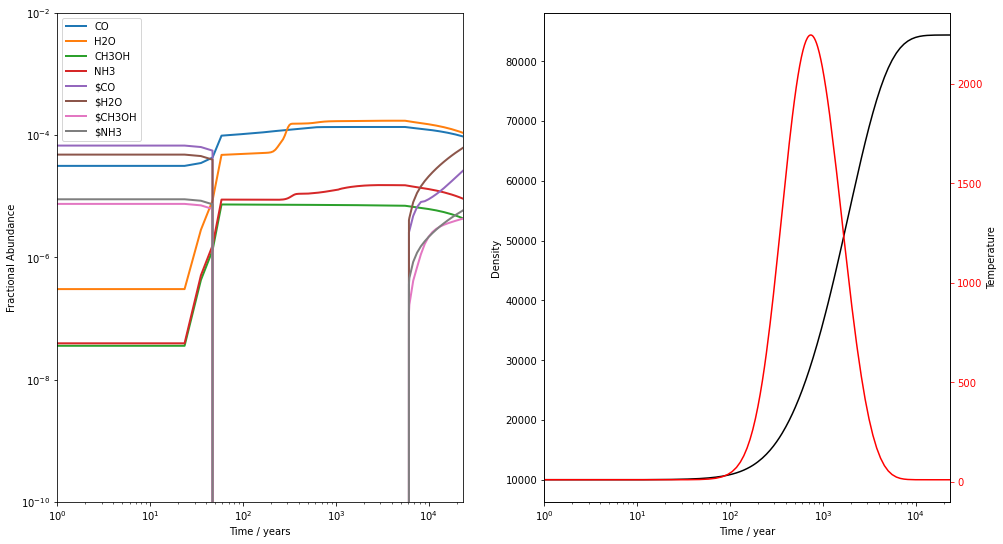
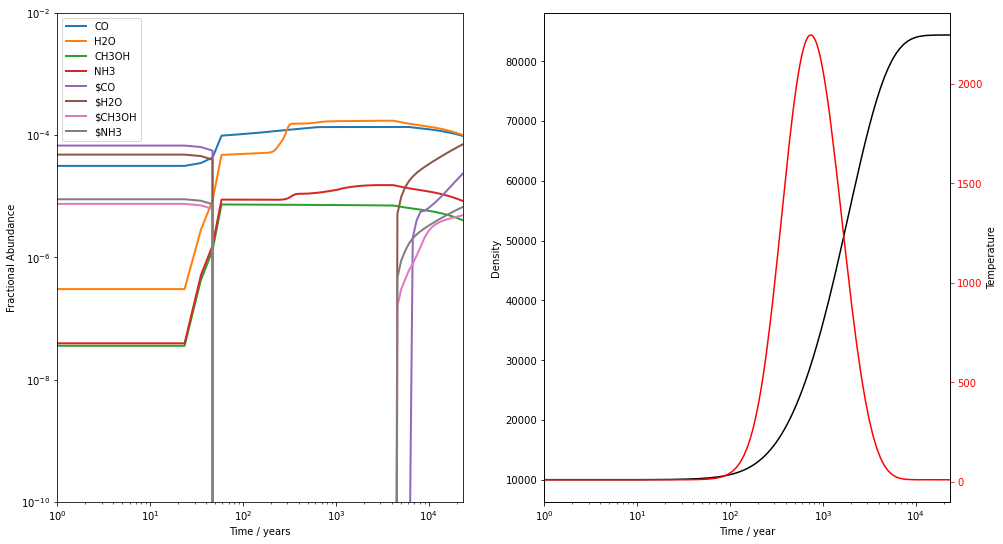
updating old docs to refer to new models

Changed region(s): [[0.3709, 0.2188, 0.4636, 0.9062]]

diff --git a/website/docs/chem-desorb.md b/website/docs/chem-desorb.md
@@ -3,16 +3,18 @@ id: desorb
 title: Adsorption & Desorption Reactions
 ---
 
-Coupling between the gas and the grain chemistry primarily comes from the freeze out of material from the gas phase onto the dust grains (adsorption) and the sublimation of material from the grains into the gas phase (desorption). The major processes considered by UCLCHEM are listed below.
+Coupling between the gas and the grain chemistry primarily comes from the freeze out of material from the gas phase onto the dust grains (adsorption) and the sublimation of material from the grains into the gas phase (desorption). The major processes considered by UCLCHEM are listed below. Note that we assume desorption and freeze out occur between the gas and the surface only, bulk material in three phase models does not directly desorb into the gas phase.
 
 ## Freeze out
-We assume that up to 30 K, molecules freeze out at a rate given by the rate of collision between a species and the dust grains:
+We assume that molecules freeze out at a rate given by the rate of collision between a species and the dust grains:
 $$
 k=\alpha v_{th} A_g C_{ion}
 $$
 where $\alpha$ is a branching ratio, $V_{th}$ is the thermal velocity of the particle and $A_g$ is the dust grain cross sectional area per hydrogen nuclei. $C_{ion}$ is a factor that increases the freeze out rate of ions due to electrostatic forces.
 
 The branching ratio is an artefact of older versions of UCLCHEM which allows the user to include some grain processing of species without surface reactions. For a given species (eg C) we can determine several species that will rapidly form on the grain (CH,CH4) and freeze some portion of the original species (C) out to these products. This allows fast processes like hydrogenation to be treated without a network of surface reactions. *However, users should default to using a branching ratio of 1 and allowing surface reactions to take place*.
+
+For efficiency, freeze out is turned off when the desorption rate is so high that ignoring freeze out would produce an error of around 10$^{-20}$ on the abundances of the gas phase species. We also turn off freeze out when the temperature exceeds the binding energy of H$_2$O.
 
 ## Thermal Desorption
 
@@ -24,7 +26,7 @@ $$
 
 This can be simply multiplied by the surface abundance of a species to get its rate of change when using a three phase network. However, for two phases, we multiply by the fraction of the total ice particle which are a given species and by the number of surface sites per volume. This accounts for the fact a majority of the ice material cannot thermally desorb as it not on the surface.
 
-Thermal desorption is most relevant to cloud.f90 which can be used to model hot cores. As the temperature increases, sublimation can occur. However, TPD experiments (Collings et al. 2004) show that this happens in bursts rather than as a continuous process. These bursts happen naturally in the three phase model as the surface is removed and then the bulk. However, for a two phase network, such bursts need to be simulated. Thus cloud.f90 handles these bursts in the two phase case and the user should turn off thermal desorption.
+Thermal desorption is most relevant to hot core models. As the temperature increases, sublimation can occur. However, TPD experiments (Collings et al. 2004) show that this happens in bursts rather than as a continuous process. These bursts happen naturally in the three phase model as the surface is removed and then the bulk. However, for a two phase network, such bursts need to be simulated. For this reason, the hot core model handles these bursts in the two phase case and the user should turn off thermal desorption.
 
 ## Non-thermal Desorption Methods
 

diff --git a/website/docs/modelling_objects.md b/website/docs/modelling_objects.md
@@ -35,7 +35,7 @@ result = uclchem.model.cloud(param_dict=param_dict)
 print(result)
 ```
 
-    1
+    [1]
 
 
 With that done, we now have a file containing the final abundances of a cloud of gas after this collapse: `param_dict["abundSaveFile"]` we can pass this to our hot core model to use those abundances as our initial abundances.
@@ -65,23 +65,6 @@ param_dict["outputFile"]="../examples/test-output/phase2-full.dat"
 
 result=uclchem.model.hot_core(temp_indx=3,max_temperature=300.0,param_dict=param_dict)
 ```
-
-     At T(=R1) and step size H(=R2), the                                             
-     corrector convergence failed repeatedly                                         
-     or with ABS(H) = HMIN.                                                          
-    In the above message, R1 =   0.7287285413740D+13   R2 =   0.5478219417669D-01
-     ISTATE -5 - shortening step at time   230610.29790317026      years
-     At T(=R1) and step size H(=R2), the                                             
-     corrector convergence failed repeatedly                                         
-     or with ABS(H) = HMIN.                                                          
-    In the above message, R1 =   0.7290413518906D+13   R2 =   0.5387230589814D+03
-     ISTATE -5 - shortening step at time   230709.28857297476      years
-     At T(=R1) and step size H(=R2), the                                             
-     corrector convergence failed repeatedly                                         
-     or with ABS(H) = HMIN.                                                          
-    In the above message, R1 =   0.7292726506262D+13   R2 =   0.1381305879716D+02
-     ISTATE -5 - shortening step at time   230782.48437539555      years
-
 
 Note that we've changed abstol and reltol here. They control the integrator accuracy and whilst making them smaller does slow down successful runs, it can make runs complete that stall completely otherwise. In this case, we found that when we didn't alter the defaults, the model completed but `uclchem.check_element_conservation()` showed C and O were not conserved. By reducing these tolerances, we were fix this as shown below.
 
@@ -171,11 +154,6 @@ result,dissipation_time=result
 
      Cannot have freefall on during cshock
      setting freefall=0 and continuing
-     At current T(=R1), MXSTEP(=I1) steps                                            
-     taken on this call before reaching TOUT.                                        
-    In the above message, I1 =      10000
-    In the above message, R1 =   0.1931519818467D+12
-     ISTATE -1: Reducing time step
 
 
 The code completes fine. We do get a couple of warnings though. First, we're informed that `freefall` must be set to False for the C-shock model. Then we get a few integrator warnings. These are not important and can be ignored as long as the element conservation looks ok. However, it is an indication that the integrator did struggle with these ODEs under these conditions.
@@ -189,7 +167,7 @@ uclchem.analysis.check_element_conservation(phase2_df)
 
 
 
-    {'H': '0.005%', 'N': '1.151%', 'C': '1.380%', 'O': '1.305%'}
+    {'H': '0.005%', 'N': '1.167%', 'C': '1.394%', 'O': '1.326%'}
 
 
 

diff --git a/website/docs/chem-grain.md b/website/docs/chem-grain.md
@@ -5,8 +5,8 @@ title: Grain Surface Reactions
 
 Whilst the basic treatment of gas phase chemistry is well established, grain surface chemistry is more complex. There are three possible ways to treat grain surface chemistry in UCLCHEM. In general we assume that:
 - All dust grains are well covered by the species in question so we can take a rate equation approach based on fractional abundance rather than tracking if molecule A is on the same dust grain as molecule B.
-- Ice mantles on dust grains can be treated as a single layer.
 - Grains are spherical objects of a uniform size.
+- All species are thermalized on the grains.
 
 This allows a fairly straight forward treatment of the grain chemistry. Below we list several processes that are important in UCLCHEM's treatment of the grain chemistry.
 
@@ -17,7 +17,7 @@ Reactions via diffusion of reactants across the grain surface was added to UCLCH
 ```
 #H,#CO,LH,#HCO,,,,alpha,0.0,gamma,,,
 ```
-where alpha is a branching ratio if you include multiple versions of the same reaction and gamma is the energy barrier to the reaction. Including this reaction in your MakeRates input will result in two reactions being created in the actual network: one with gas phase products and one with grain surface products. This is to account for the desorption of products of exothermic reactions and the branching ratio is determined within UCLCHEM using the binding energy of the products and energy released by the reaction following [Minissale et al. 2016](https://www.aanda.org/10.1051/0004-6361/201525981).
+where alpha is a branching ratio if you include multiple versions of the same reaction and gamma is the energy barrier to the reaction. Including this reaction in your MakeRates input will result in two reactions being created in the actual network: one with gas phase products and one with grain surface products. This is to account for the desorption of products of exothermic reactions and the branching ratio is determined within UCLCHEM using the binding energy of the products and energy released by the reaction following [Minissale et al. 2016](https://www.aanda.org/10.1051/0004-6361/201525981). The equivalent reactions will also be generated for the ice bulk if you are using a three phase network so you only need to list LH reactions with surface reactants and products.
 
 If we follow the rate of change of the absolute number of a species on the surface of a grain ($N_S$), we get
 
